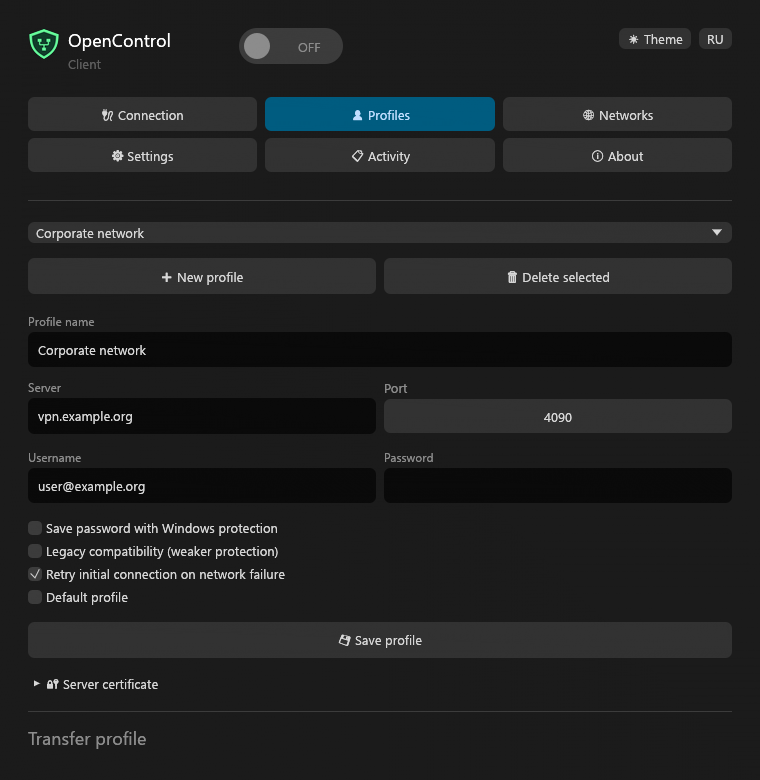
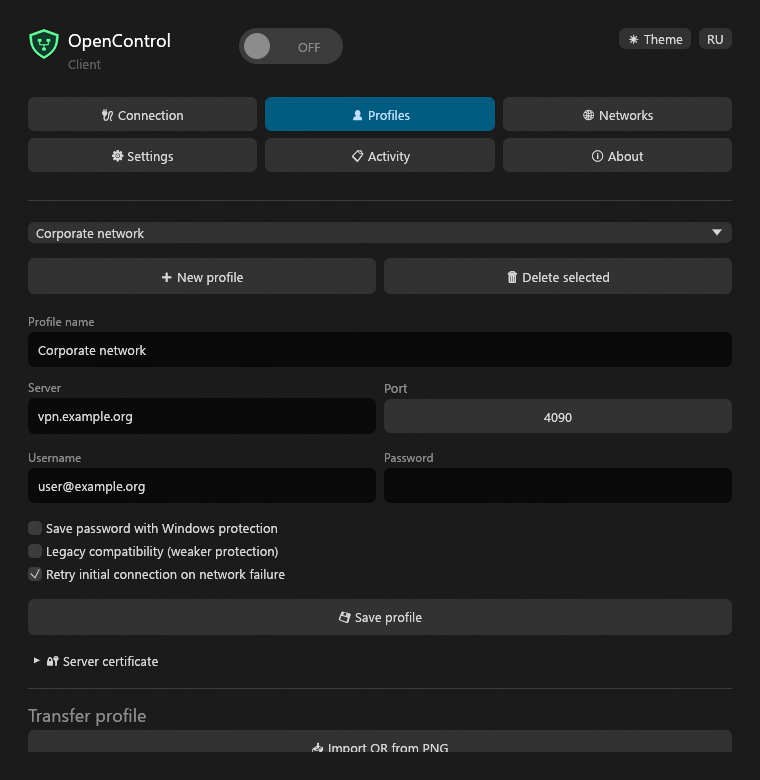
Release OpenControl Client 1.1.1

diff --git a/VALIDATION.md b/VALIDATION.md
@@ -1,61 +1,39 @@
-# Validation / Проверки — 1.1.0
+# Validation / Проверки — 1.1.1
 
 Date / Дата: 2026-10-26.
 
-**Граница проверки:** действующий VPN пользователя не отключался. Длительный
-живой прогон использует транспорт Windows-клиента с синтетическим пакетным
-устройством и имитацией операций ОС. Он НЕ проверяет установку службы, Wintun,
-маршруты и DNS Windows. Эти проверки требуют отдельного свободного Windows-стенда.
+## Scope / Граница проверки
 
-**Scope:** the existing user VPN was left running. The live probe uses the actual
-Windows client transport with a synthetic packet device and mock OS operations.
-It does NOT validate installed-service, Wintun, Windows route or DNS behaviour.
-Those checks require a separate available Windows test host.
+Действующий VPN пользователя не отключался. Установка/обновление службы,
+реальное переключение режима через UAC и VPN до входа на физической Windows
+в этом выпуске не проверялись: для этого нужен свободный Windows-стенд.
+Автоматические проверки и снимки интерфейса не заменяют такую проверку.
+
+The existing user VPN was not interrupted. Installed-service upgrade, real UAC
+mode changes and pre-sign-in connection on a Windows machine were not exercised
+in this release; they require a separate available Windows host. Automated tests
+and rendered UI screenshots are not live installation acceptance.
 
 | Check / Проверка | Result / Результат |
 |---|---|
-| Rust stable | 1.99.1, upstream update/check passed |
-| OpenControl Protocol | 0.9.0, pinned cacf1a738e5013922ca9678d529d014fffc22d11; annotated v0.9.0 resolves to that commit |
-| fmt + clippy all targets, warnings denied | Passed / Пройдено |
-| Client tests | 94 unit + 7 migration = 101 passed |
-| Protocol all-feature tests and doctests | Passed; two slots/generations, current-slot peer replacement, ACK, stale epochs, legacy opt-in and independent liveness |
-| ROUTES model tests | Initial/empty, START without END, unchanged retry after OS failure, partial ACK, full/split endpoint order, failed delete ownership; virtual 600/1200 seconds |
-| Windows release builds | x86, x64, ARM64; static CRT; PE machine 014c/8664/aa64 |
-| MSI contents | Six allowlisted payloads per architecture; extracted EXE matches build; correct 1.1.0 ProductVersion |
-| MSI languages | Russian installer 1049; application Russian/English in every architecture |
-| Wintun | Official 0.14.1, pinned SHA256 and valid Authenticode for all three DLLs |
-| EXE/MSI publisher signature | Not signed / Не подписаны |
-| Shortcuts/icons | Desktop and Start; PE icon stream and native large/small extraction checked |
-| GUI and service manifests/tables | asInvoker/PerMonitorV2; LocalSystem, automatic service; standard MSI service stop/delete and uninstall tables checked |
-| UI | Synthetic RU/EN profile editor and About rendered; light/dark and 150% narrow layout inspected; native hidden CPU window startup/shutdown passed |
-| Live AES transport | 1290 seconds; initial ROUTES at 2s, repeated at 602/1202s; one rekey ACK; 256/258 validated ICMP replies; no reconnect; intentional cancellation passed |
-| Live Legacy transport | Expected rejection: supplied modern Kerio does not accept Legacy clients (confirmed by owner). No automatic downgrade. Separate AES reconnect: 6/6 replies in 30 seconds |
-| Installed service, actual Wintun/route/DNS apply and restoration | Not run: user explicitly prohibited interrupting the existing VPN |
-| Windows 11 ARM device, Modern Standby, network handover | Not run / Не проверено |
-| Publication | Public allowlist only: MSI, checksums, user documents and synthetic screenshots; no sources, keys, credentials or raw lab logs |
+| Rust stable | 1.99.1; rustup update stable checked 2026-10-26 |
+| Protocol | Unchanged 0.9.0, pinned cacf1a738e5013922ca9678d529d014fffc22d11 |
+| fmt and clippy all targets, warnings denied | Passed / Пройдено |
+| Automated tests | 99 unit + 7 ROUTES migration = 106 passed |
+| Startup modes | Success switches modes; failed/cancelled configuration preserves preferences; disabling boot does not enable another mode; unknown service state blocks client auto-connect |
+| Persistence | Old default_profile is ignored; last selection survives JSON reload and sorting; save failures preserve safety of the active mode |
+| Windows builds | x86, x64, ARM64; static CRT |
+| MSI | Version 1.1.1, Russian installer 1049; application RU/EN; PE architecture, extracted payload hashes, service/uninstall tables and shortcuts checked |
+| Driver | Official Wintun 0.14.1; pinned archive hash; extracted DLL Authenticode Valid |
+| Publisher signatures | EXE/MSI unsigned / EXE и MSI не подписаны издателем |
+| UI | Synthetic RU/EN settings, profiles and About; light/dark and scaled layout; native CPU window startup/shutdown |
+| Live VPN for 1.1.1 | Not repeated: settings/UI change; existing host VPN left running |
+| Windows ARM hardware, sleep/resume, installed upgrade/remove, boot connection | Not run / Не проверено |
 
-TLS/authentication policy was retained. Runtime Legacy is off by default and
-never selected after an error. UDP endpoint migration requires a new session;
-no seamless migration claim is made. safeLan is status, not a firewall command.
+Historical evidence from 1.1.0 only: a 1290-second live AES transport probe with
+mock OS resources observed repeated ROUTES at 602/1202 seconds and one rekey ACK.
+It did not test real Windows routes, DNS or Wintun and is not a new 1.1.1 live run.
 
-DNS recovery uses only the dedicated adapter, retains a backup on errors or
-external changes and requires confirmed restoration before clearing it. Automatic
-models and code review do not prove failure recovery against a live Windows OS.
-Windows route APIs lack cross-process compare-and-delete transactions; an
-unrelated administrator can still race an identity check and OS operation.
-
-Kerio configuration and users were not changed for the transport probe. Lab
-credentials stayed in process/stdin memory. SSH-key access to the authorized
-Ubuntu host was restored at the user's request. No temporary firewall rules or
-corporate configuration are included in this release.
-
-The two unanswered AES test packets were observed after the rekey, while replies
-continued through the second ROUTES and completion. Their cause was not isolated;
-this is not a zero-loss claim. Legacy packet interoperability with an accepting
-legacy client server was not live-tested in this Windows release; deterministic
-codec/session tests passed. No server policy was weakened for testing.
-
-Два AES-запроса остались без ответа; причина потерь не установлена. Работа
-Legacy с принимающим его сервером в этом Windows-выпуске не проверена вживую.
-На предоставленном современном Kerio отказ ожидаем и подтверждён владельцем;
-автоматического перехода на AES не было. Политика сервера не изменялась.
+Исторический результат 1.1.0: живой прогон транспорта AES 1290 секунд с имитацией
+операций ОС, повторными ROUTES на 602/1202 секундах и одним ACK rekey. Он не
+проверял реальные маршруты, DNS и Wintun и не выдаётся за новый прогон 1.1.1.

diff --git a/README.en.md b/README.en.md
@@ -2,7 +2,7 @@
 <h1 align="center">OpenControl Client</h1>
 <p align="center">Your organization’s network · Windows 10 / 11</p>
 <p align="center"><a href="README.md">Русский</a> · <b>English</b></p>
-<p align="center"><a href="https://github.com/nr084/opencontrol-client-windows-releases/releases/latest">Download 1.1.0</a> · <a href="RELEASE_NOTES.md">What’s new</a> · <a href="SHA256SUMS">SHA256</a></p>
+<p align="center"><a href="https://github.com/nr084/opencontrol-client-windows-releases/releases/latest">Download 1.1.1</a> · <a href="RELEASE_NOTES.md">What’s new</a> · <a href="SHA256SUMS">SHA256</a></p>
 
 OpenControl connects your PC to a private corporate network through Kerio Control. Your organization supplies the server address and account. This independent client is not an official Kerio/GFI product or a provider of VPN access.
 
@@ -14,9 +14,9 @@ Each MSI includes Russian and English. **Russian is the default on first launch*
 
 | Computer | Download |
 |---|---|
-| Intel / AMD 64-bit PC | [x64](https://github.com/nr084/opencontrol-client-windows-releases/releases/download/v1.1.0/OpenControl-client-1.1.0-windows-x64.msi) |
-| Windows 10, 32-bit | [x86](https://github.com/nr084/opencontrol-client-windows-releases/releases/download/v1.1.0/OpenControl-client-1.1.0-windows-x86.msi) |
-| Windows on ARM, including a Windows 11 VM on Mac | [ARM64](https://github.com/nr084/opencontrol-client-windows-releases/releases/download/v1.1.0/OpenControl-client-1.1.0-windows-arm64.msi) |
+| Intel / AMD 64-bit PC | [x64](https://github.com/nr084/opencontrol-client-windows-releases/releases/download/v1.1.1/OpenControl-client-1.1.1-windows-x64.msi) |
+| Windows 10, 32-bit | [x86](https://github.com/nr084/opencontrol-client-windows-releases/releases/download/v1.1.1/OpenControl-client-1.1.1-windows-x86.msi) |
+| Windows on ARM, including a Windows 11 VM on Mac | [ARM64](https://github.com/nr084/opencontrol-client-windows-releases/releases/download/v1.1.1/OpenControl-client-1.1.1-windows-arm64.msi) |
 
 1. Install the app. Desktop and Start menu shortcuts are created by default.
 2. Add a connection in **Profiles**, or import your CFG in **Settings**.
@@ -47,7 +47,7 @@ A success notification is shown once after a manual connection, reconnect or pro
 
 ![Activity](assets/activity-en.png)
 
-The activity log keeps the time, tunnel name, connections, disconnections and errors across profile changes: up to 500 events in memory until exit, newest first, using Windows local time. The client reports its actual version to the server: **1.1.0 · build 7**, visible on the next connection.
+The activity log keeps the time, tunnel name, connections, disconnections and errors across profile changes: up to 500 events in memory until exit, newest first, using Windows local time. The client reports its actual version to the server: **1.1.1 · build 8**, visible on the next connection.
 
 With multiple profiles, use **Switch profile** in the tray menu: choosing a profile disconnects the old tunnel and connects the selected one automatically. A password or certificate prompt appears only when needed.
 
@@ -98,22 +98,26 @@ In **Networks**, enter destinations that should use your regular connection, suc
 
 ## Client startup and automatic connection
 
-**Settings → Startup** provides two independent switches:
+**Settings → Startup and connection** separates application startup from VPN connection:
 
 - **Start the client at Windows sign-in** enables or disables tray startup for your Windows account.
-- **Connect to VPN when the client starts** connects the tunnel selected in the list on the next application start, whether manual or at sign-in. Off by default. Changing this setting does not connect immediately.
+- **Connect when the client starts** connects the tunnel selected in the list on the next application start, whether manual or at sign-in. Off by default. Changing this setting does not connect immediately.
 
 Save the profile password and trust the certificate through a regular connection first. Missing data opens the main window with an explanation. An existing service tunnel is preserved; startup connection does not replace it or run again after manual disconnection. Deleting the selected profile disables this setting.
 
 The tray tooltip shows the active tunnel name, state and total session traffic. Very long names use an ellipsis while traffic counters remain visible. Automatic startup connection does not show a success notification.
 
+The last selected profile is the default; there is no separate default-profile control.
+
 ## VPN before Windows sign-in
 
-1. In **Profiles**, choose the default profile, save its password and trust the server certificate.
-2. In **Settings**, choose **Enable VPN before sign-in** and approve UAC.
+1. In **Profiles**, save the profile password and trust the server certificate.
+2. In **Settings**, choose **Enable VPN before sign-in**, select a profile, click **Apply** and approve UAC. After a successful save the button becomes **Disable VPN before sign-in**.
 3. On the next Windows start, the service connects the saved profile before anyone signs in, retrying temporary network failures.
 
-After sign-in the client takes control of the running tunnel. Disconnecting or switching profiles finishes the previous tunnel first. **Disable VPN before sign-in** disables future service-start connections; use the ordinary switch to disconnect the current session. Apply the setting again after changing the password, certificate, default profile or network exclusions.
+After sign-in the client takes control of the running tunnel. Disconnecting or switching profiles finishes the previous tunnel first. **Disable VPN before sign-in** disables future service-start connections; use the ordinary switch to disconnect the current session. Apply the setting again after changing the password, certificate, chosen profile or network exclusions.
+
+**Mutually exclusive modes:** enabling VPN before sign-in turns off VPN on client startup. Disable before-sign-in VPN before choosing the other mode. Cancelled or failed UAC preserves previous settings. Client window startup remains independent.
 
 This is a computer-wide setting. Its protected connection copy uses Windows DPAPI and SYSTEM/Administrators-only access. Configuration requires administrator approval. Unknown or changed certificates are never silently accepted. Uninstall removes this copy; upgrades preserve it.
 
@@ -131,7 +135,7 @@ Uninstall through **Windows Settings → Apps → OpenControl Client → Uninsta
 
 The Wintun driver is officially signed. Project EXE/MSI files are not yet publisher-signed. Check [SHA256SUMS](SHA256SUMS).
 
-95 automated tests, three architecture builds and MSI content checks passed. Retry after authentication failure was tested with a synthetic Windows pipe; native tray updates were also checked. Full operation on the target ARM VM and a real firewall remains outside these tests. See [VALIDATION.md](VALIDATION.md).
+106 automated tests, three architecture builds and MSI content checks passed. The UI was checked with synthetic profiles. Installed-service, UAC and pre-sign-in connection were not exercised on a separate Windows machine in this release; the existing user VPN was not interrupted. See [VALIDATION.md](VALIDATION.md).
 
 All screenshots contain fictional profiles. This repository publishes installers and documentation; client sources are private. The [protocol library](https://github.com/nr084/opencontrol-protocol) is a separate public project.
 
@@ -146,7 +150,7 @@ All screenshots contain fictional profiles. This repository publishes installers
 
 © 2026 nr084
 
-## Compatibility mode and network recovery — 1.1.0
+## Compatibility mode and network recovery — 1.1.1
 
 Profiles now offer an optional Legacy compatibility mode. It is off by default:
 AES-GCM remains the normal mode. Legacy provides weaker protection without GCM

diff --git a/RELEASE_NOTES.md b/RELEASE_NOTES.md
@@ -1,3 +1,27 @@
+# OpenControl Client 1.1.1
+
+## Русский
+
+- Настройки разбиты на отдельные блоки: клиент, автоподключение, перенос соединений и синхронизация.
+- VPN до входа в Windows и подключение после запуска клиента теперь взаимоисключающие. Автозапуск самого приложения настраивается отдельно.
+- Одна кнопка «Включить VPN до входа» открывает выбор профиля. После подтверждения и успешного сохранения она становится «Отключить VPN до входа». Отмена или ошибка не меняет прежний режим.
+- Последний выбранный профиль запоминается как профиль по умолчанию. Отдельный чекбокс убран; сортировка не сбрасывает выбор.
+- Убран неподдерживаемый символ рядом с состоянием синхронизации.
+- Windows 10/11: x86, x64, ARM64; русский и английский в каждом MSI. Версия 1.1.1, build 8; Protocol Library 0.9.0.
+- [Результаты и ограничения проверок](https://github.com/nr084/opencontrol-client-windows-releases/blob/main/VALIDATION.md). EXE/MSI не подписаны издательским сертификатом; официальный драйвер Wintun подписан отдельно.
+
+## English
+
+- Settings are grouped into client startup, automatic connection, connection transfer and file synchronization.
+- VPN before Windows sign-in and VPN on client startup are now mutually exclusive. Starting the application itself remains independent.
+- One “Enable VPN before sign-in” button opens profile selection. After approval and a successful save it becomes “Disable VPN before sign-in”. Cancellation or failure preserves the previous mode.
+- The last selected profile is remembered as the default. Removed the separate checkbox; sorting preserves the selection.
+- Removed the unsupported synchronization status glyph.
+- Windows 10/11: x86, x64, ARM64; Russian and English in every MSI. Version 1.1.1, build 8; Protocol Library 0.9.0.
+- [Validation results and limitations](https://github.com/nr084/opencontrol-client-windows-releases/blob/main/VALIDATION.md). EXE/MSI have no publisher signature; official Wintun has its own verified signature.
+
+---
+
 # OpenControl Client 1.1.0
 
 ## Русский
